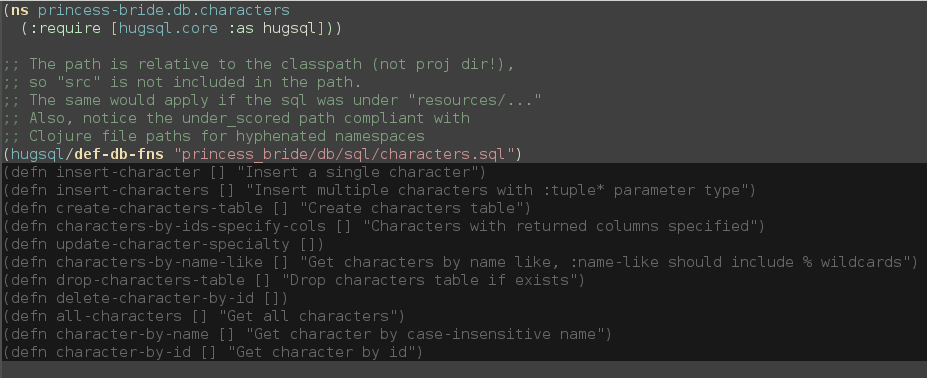
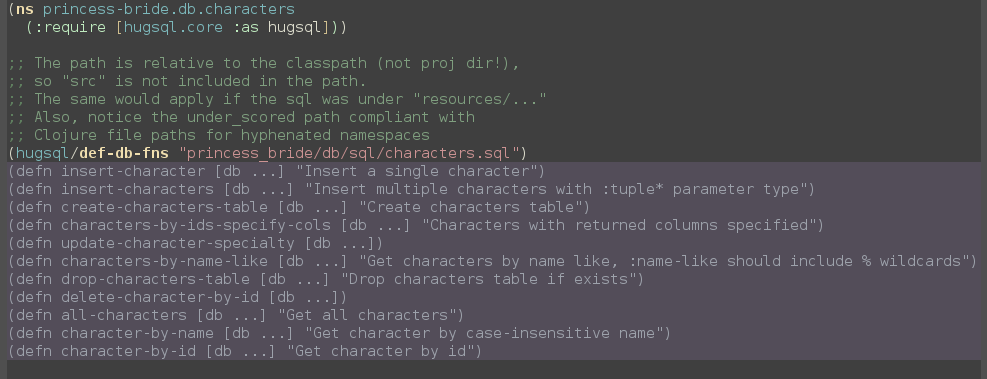
Slight refactoring, sqlvec fns are now retrieved correctly.

diff --git a/Readme.md b/Readme.md
@@ -3,7 +3,7 @@
 Displays ghostly [hugsql](https://www.hugsql.org) defns of your queries in your cider buffers.
 
 <img src="screenshot.png">
-(It'll look better with your color theme of course.)
+*(It'll look better with your color theme of course.)*
 
 ## Installation
 
@@ -22,10 +22,19 @@ Then put hugsql-ghosts.el in your elisp path and require it in your .emacs:
 Ghosts should now appear in all cider buffers which have either `(hugsql/def-db-fns "path/to/your/queries.sql")` or `(hugsql/def-sqlvec-fns "path/to/your/queries.sql")`.
 Please note, that this only works if you've required `hugsql.core` as `hugsql` in your clojure source.
 
+**Hugsql-ghosts needs an active cider connection to work as the query parsing is done by the hugsql library itself via cider.**
 
-If you want the function doc strings to be displayed also you can set `hugsql-ghosts-show-descriptions` to `t`.
 
-Hugsql-ghosts needs an active cider connection to work as the query parsing is done by hugsql itself via cider.
+## Usage / Configuration
+
+If you don't want the function doc strings to be displayed you can set `hugsql-ghosts-show-descriptions` to `nil`.
+By default the doc strings will be displayed on the same line as the `defun`, if you don't like that or don't have enough horizontal screen real-estate, you can set `hugsql-ghosts-newline-before-docstrings` to `t`.
+To prevent ghosts from being automatically displayed in all cider buffers using hugsql, simply seit `hugsql-ghosts-show-ghosts-automatically` to `nil`.
+
+The display of ghotsts can be triggered manually by calling `hugsql-ghosts-display-query-ghosts`, to get rid of them simply call `hugsql-ghosts-remove-overlays`.
+
+Finally, you can customize the face `hugsql-ghosts-defn` to adapt the overlay appearance to your liking.
+
 
 ## Acknowledgement
 
